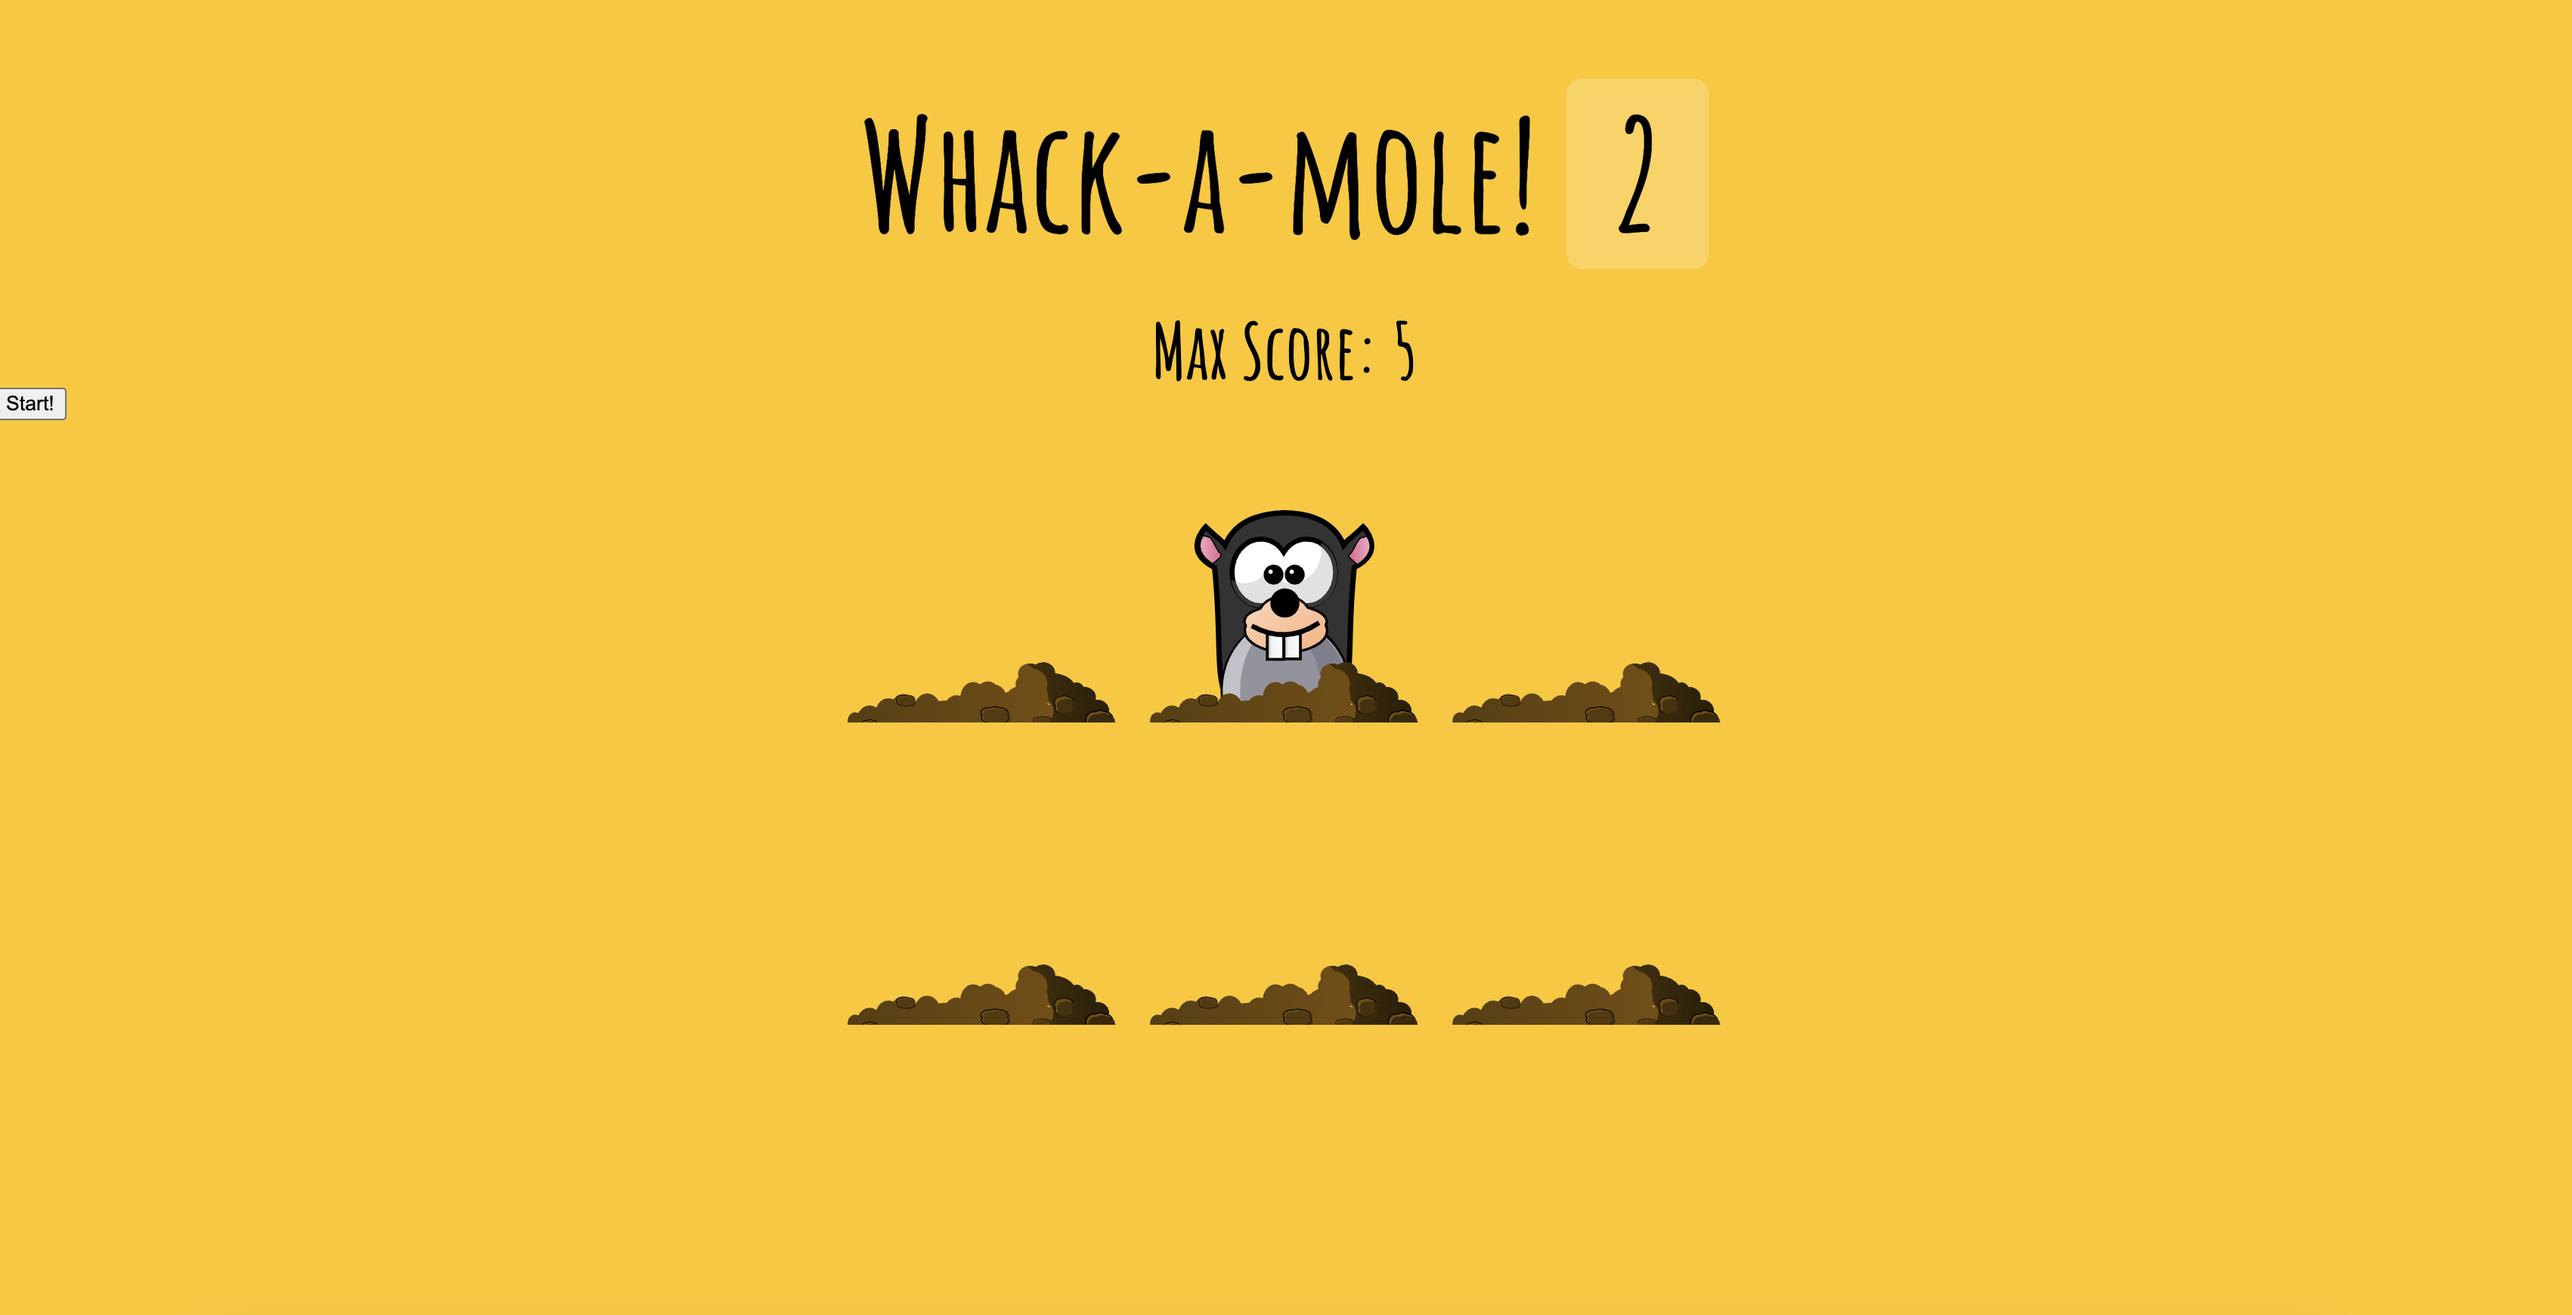
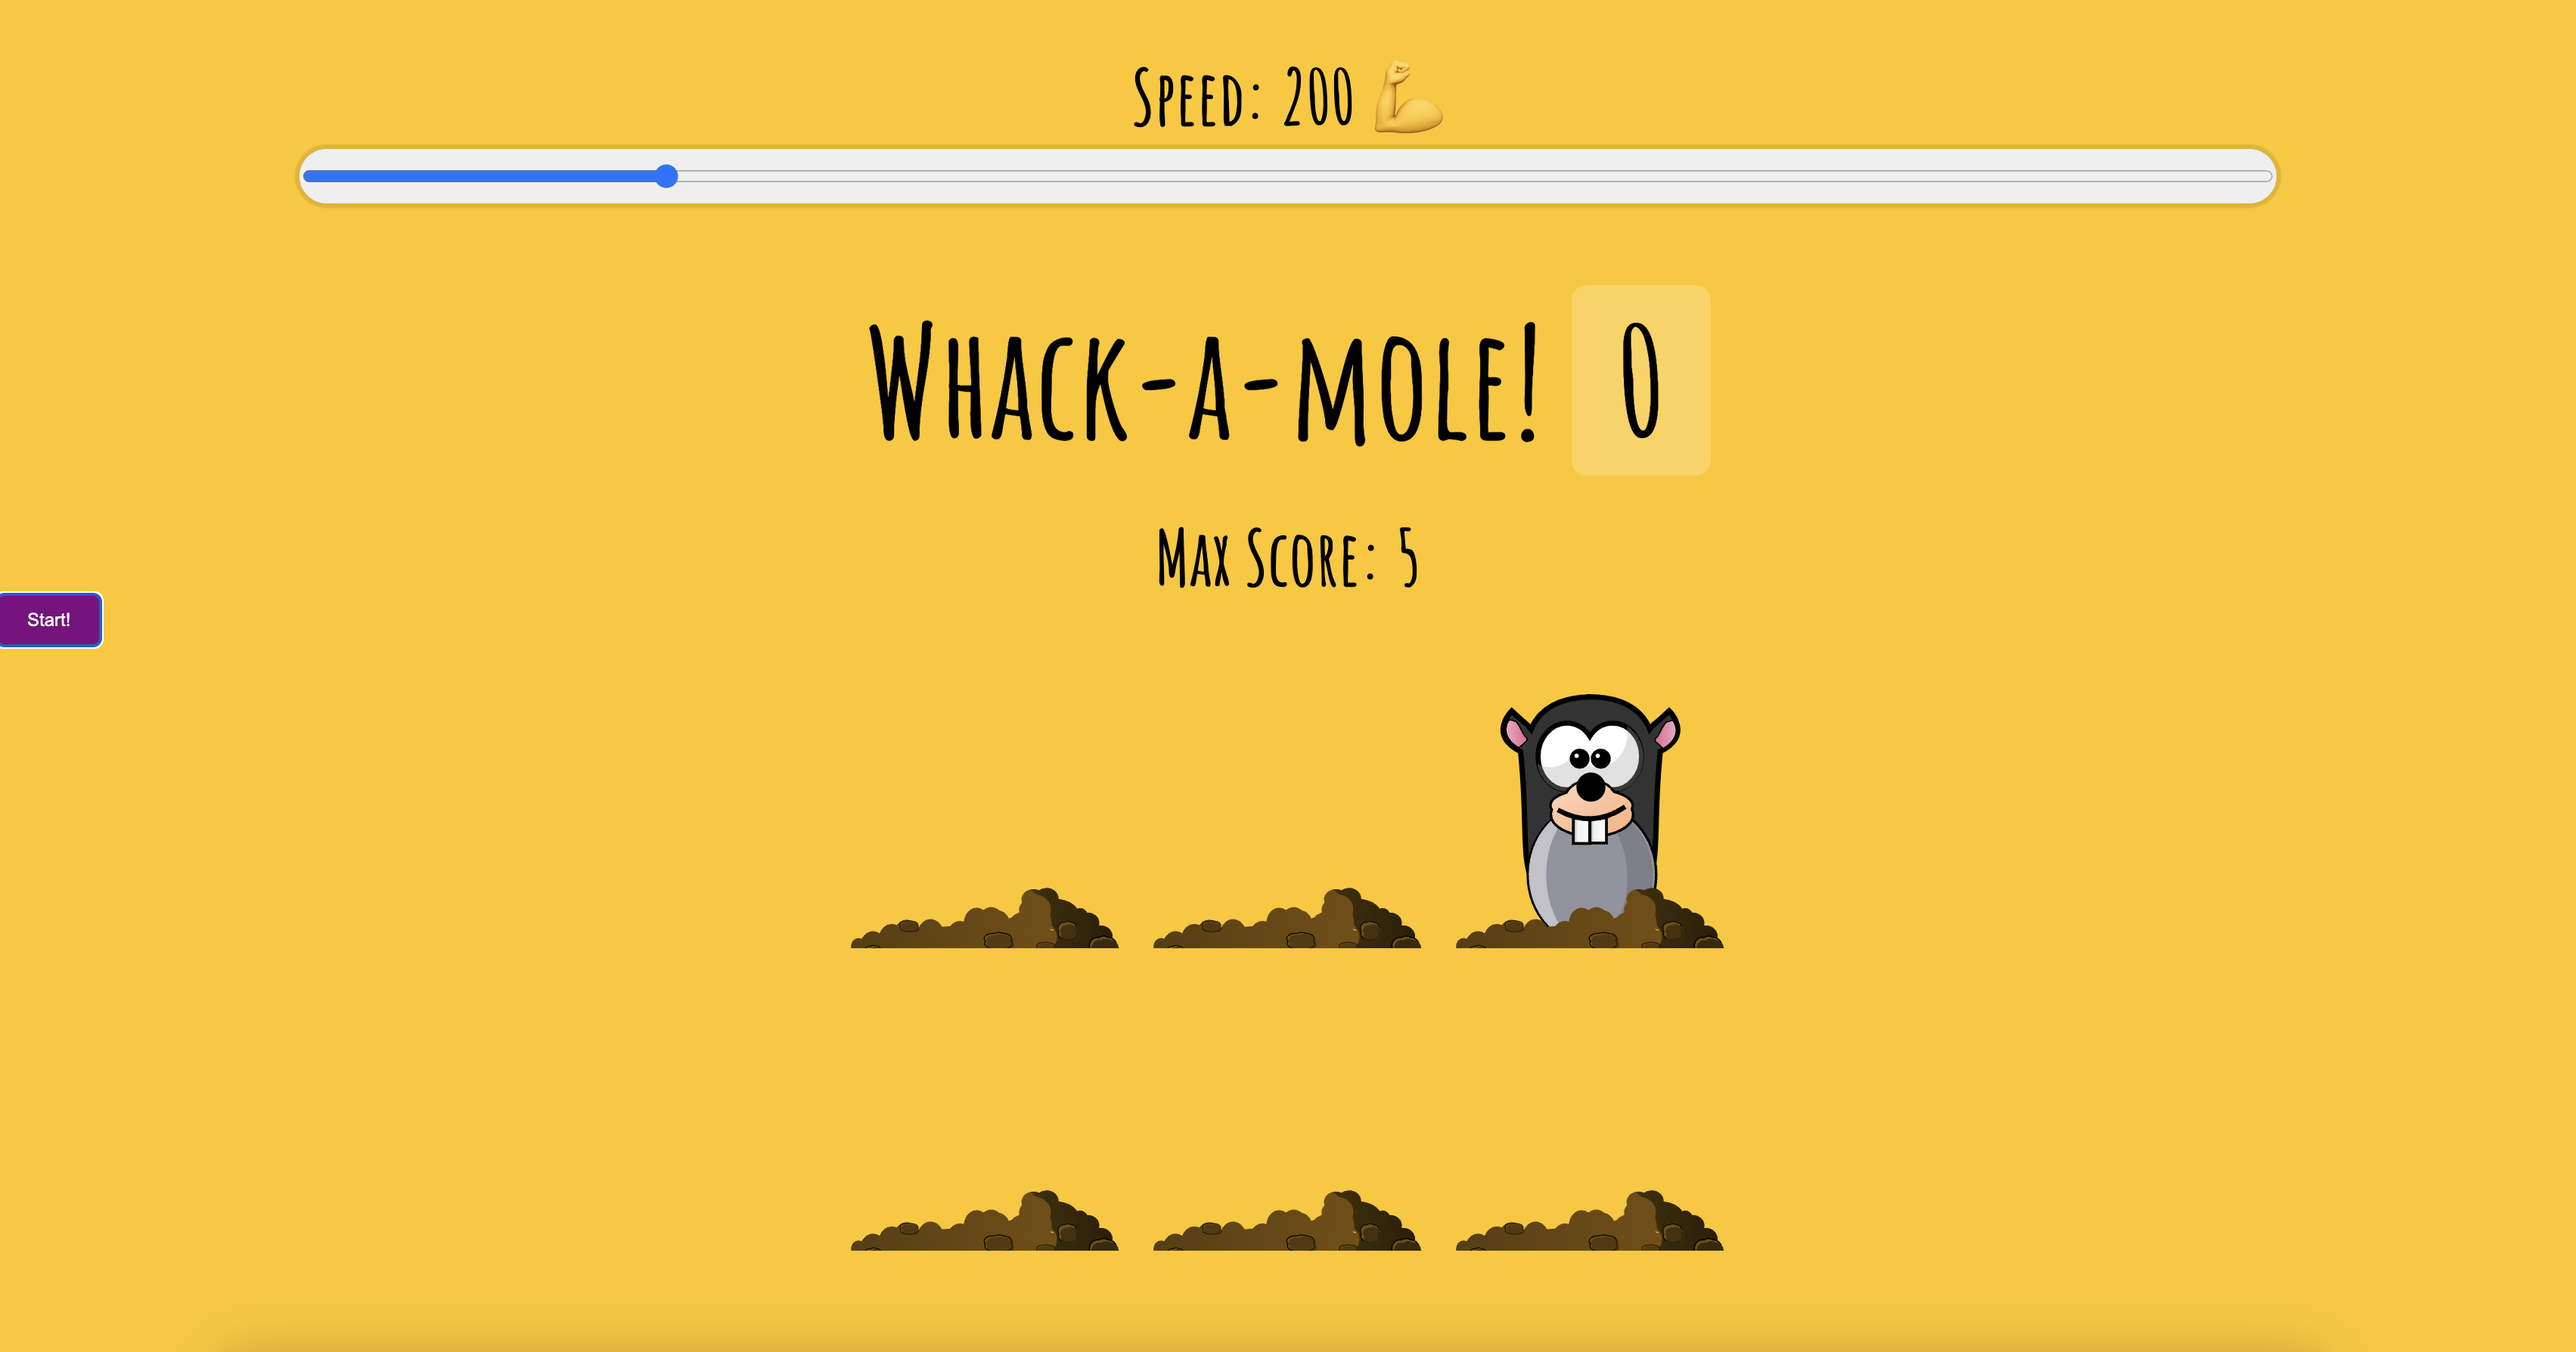
Change speed of moles with progress bar

diff --git a/30-Whack A Mole/index.html b/30-Whack A Mole/index.html
@@ -8,6 +8,15 @@
   <link rel="icon" href="https://fav.farm/🔥" />
 </head>
 <body>
+  <h2>Speed: <span id="speed-value">200</span> 💪</h2>
+  <div class="wrapper">
+
+    
+    <div class="speed">
+      <input type="range" min="50" max="900" value="200" class="speed-bar" id="speed-bar">
+    </div>
+  </div>
+
 
   <h1>Whack-a-mole! <span class="score">0</span></h1>
   <h2>Max Score: <span class="max-score">0</span></h1>
@@ -39,9 +48,12 @@
   const scoreBoard = document.querySelector('.score');
   const maxScore = document.querySelector('.max-score');
   const moles = document.querySelectorAll('.mole');
+  const speed = document.querySelector('.speed-bar');
+  const speedValue = document.getElementById('speed-value');
   let lastHole;
   let timeUp = false;
   let score = 0;
+  let speedRate = 200;
 
   const highScore = localStorage.getItem('highScore');
   if (highScore) {
@@ -65,9 +77,10 @@
   }
 
   function peep(){
-    const time = randomTime(200, 1000);
+    console.log('PEPED', speedRate)
+    const time = randomTime(speedRate, 3000);
     const hole = randomHole(holes);
-    console.log(time, hole);
+
     hole.classList.add('up');
     setTimeout(()=> {
       hole.classList.remove('up');
@@ -80,7 +93,7 @@
     timeUp = false;
     score = 0;
     peep();
-    setTimeout(() => timeUp = true, 100000)
+    setTimeout(() => timeUp = true, 10000)
   }
 
   function bonk(e){
@@ -88,7 +101,7 @@
     score ++;
     this.classList.remove('up');
     scoreBoard.textContent = score;
-    console.log(e)
+
 
     const highScore = localStorage.getItem('highScore') || 0;
     if (score > highScore) {
@@ -99,6 +112,11 @@
   }
 
   moles.forEach(mole => mole.addEventListener('click', bonk))
+
+  speed.addEventListener('input', function() {
+    speedRate = 950 - parseInt(this.value);
+    speedValue.textContent = 950-speedRate;
+  });
 
 
 </script>

diff --git a/30-Whack A Mole/style.css b/30-Whack A Mole/style.css
@@ -73,3 +73,44 @@ h2 {
 .hole.up .mole {
   top: 0;
 }
+
+.speed {
+  background: #efefef;
+  flex: 1;
+  display: flex;
+  justify-content: start;
+  margin: 10px;
+  border-radius: 50px;
+  box-shadow: 0 0 1px 3px rgba(0,0,0,0.1);
+  overflow: hidden; 
+  margin-left: 200px;
+  margin-right: 200px;
+
+}
+
+.speed-bar {
+  width: 100%;
+  background: linear-gradient(-170deg, #4d02bd 0%, #d2b8f9 100%);
+  text-shadow: 1px 1px 0 rgba(0,0,0,0.2);
+  display: flex;
+  font-size: 2rem;
+  justify-content: start;
+  padding: 8px;
+  color: white;
+  height: 16.3%;
+}
+button {
+  background-color: purple;
+  color: white;
+  padding: 10px 20px;
+  font-size: 1.2rem;
+  border: none;
+  border-radius: 5px;
+  cursor: pointer;
+  transition: background-color 0.3s ease;
+}
+
+button:hover {
+  background-color: #6a0dad;
+}
+

diff --git a/30-Whack A Mole/README.md b/30-Whack A Mole/README.md
@@ -1,6 +1,10 @@
 ### Whack A Mole
 This project is a fun game which you can get score when whack a mole! Moles pop up from the holes randomly and user's goal is the whack moles as much as possible. 
+- User can arrange the speed of moles to change difficulty of the game.
+- Max score is saved to LocalStorage to show user.
 
+#### You can try this app with the link:
+https://javascript30challenge-day30.netlify.app/
 
 #### This is the preview of the application:
 ![Screenshot of deployed app](img/preview1.png)
